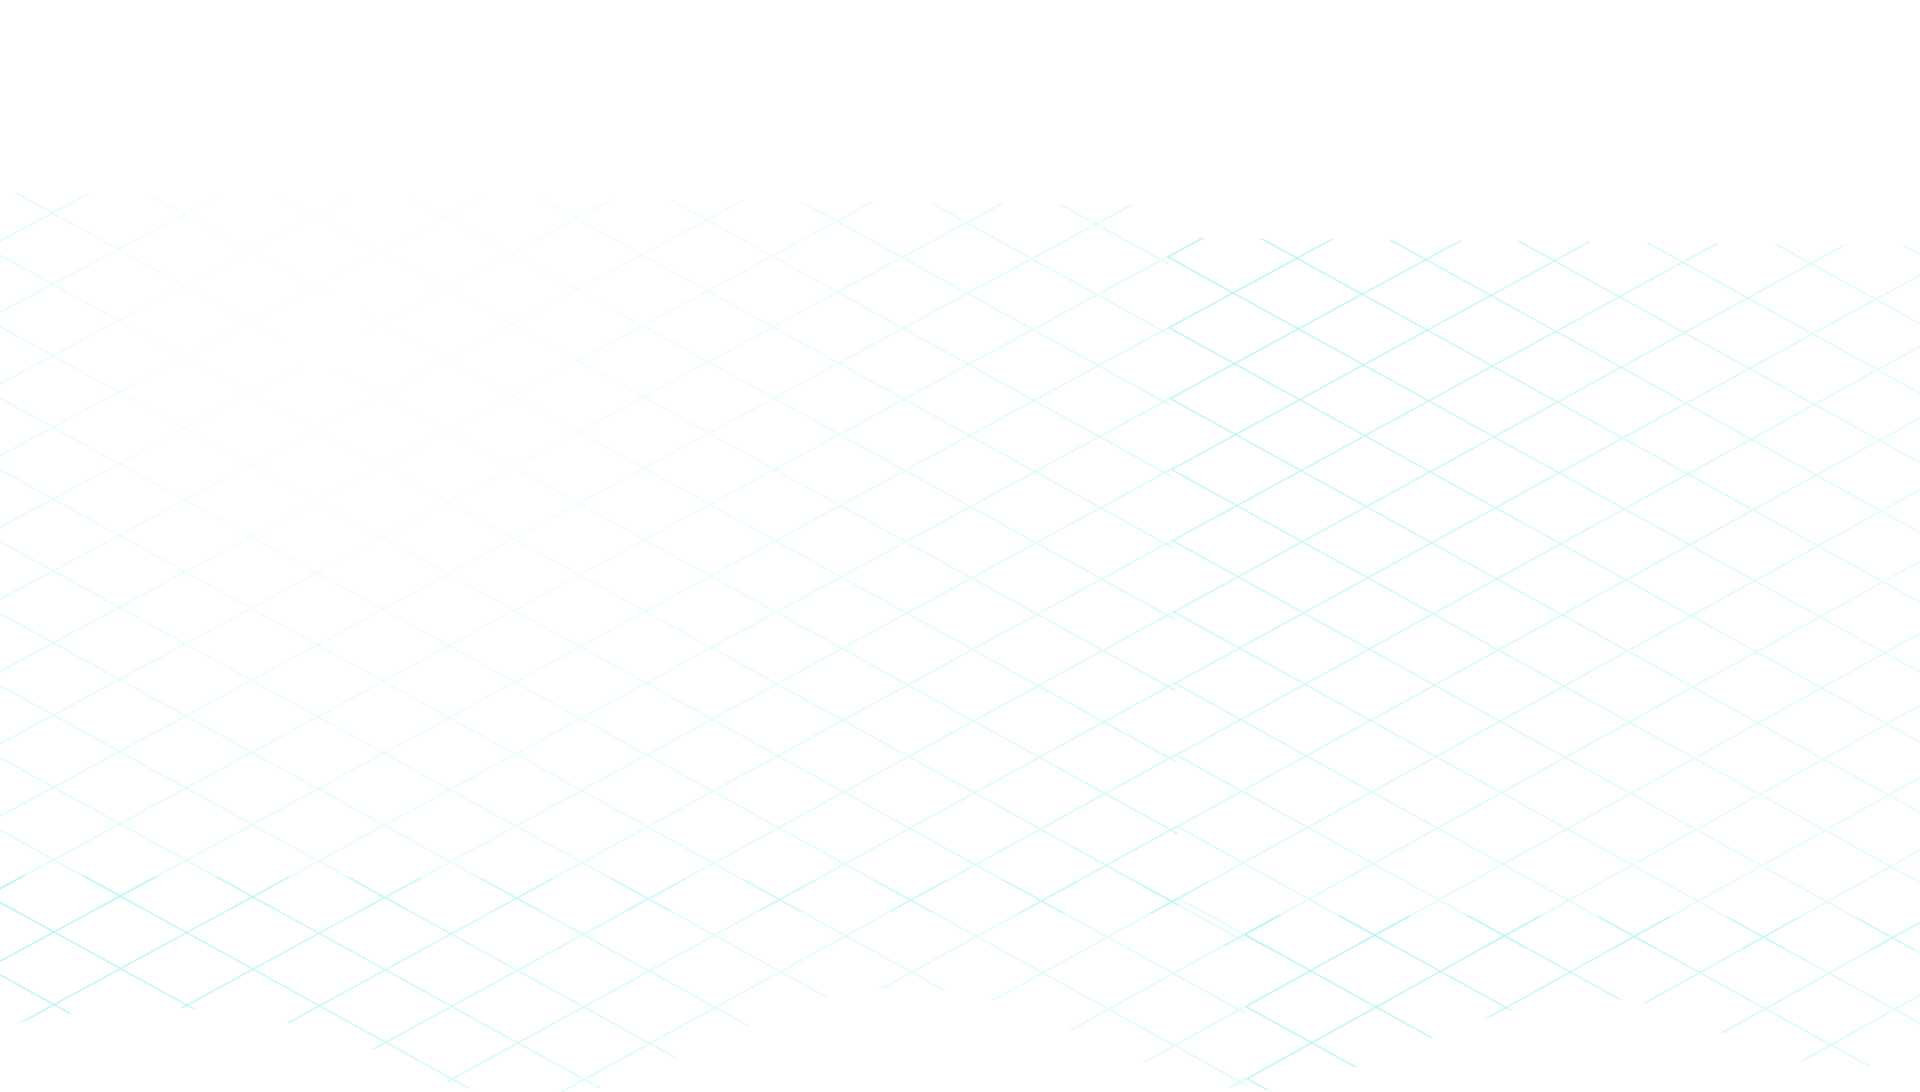
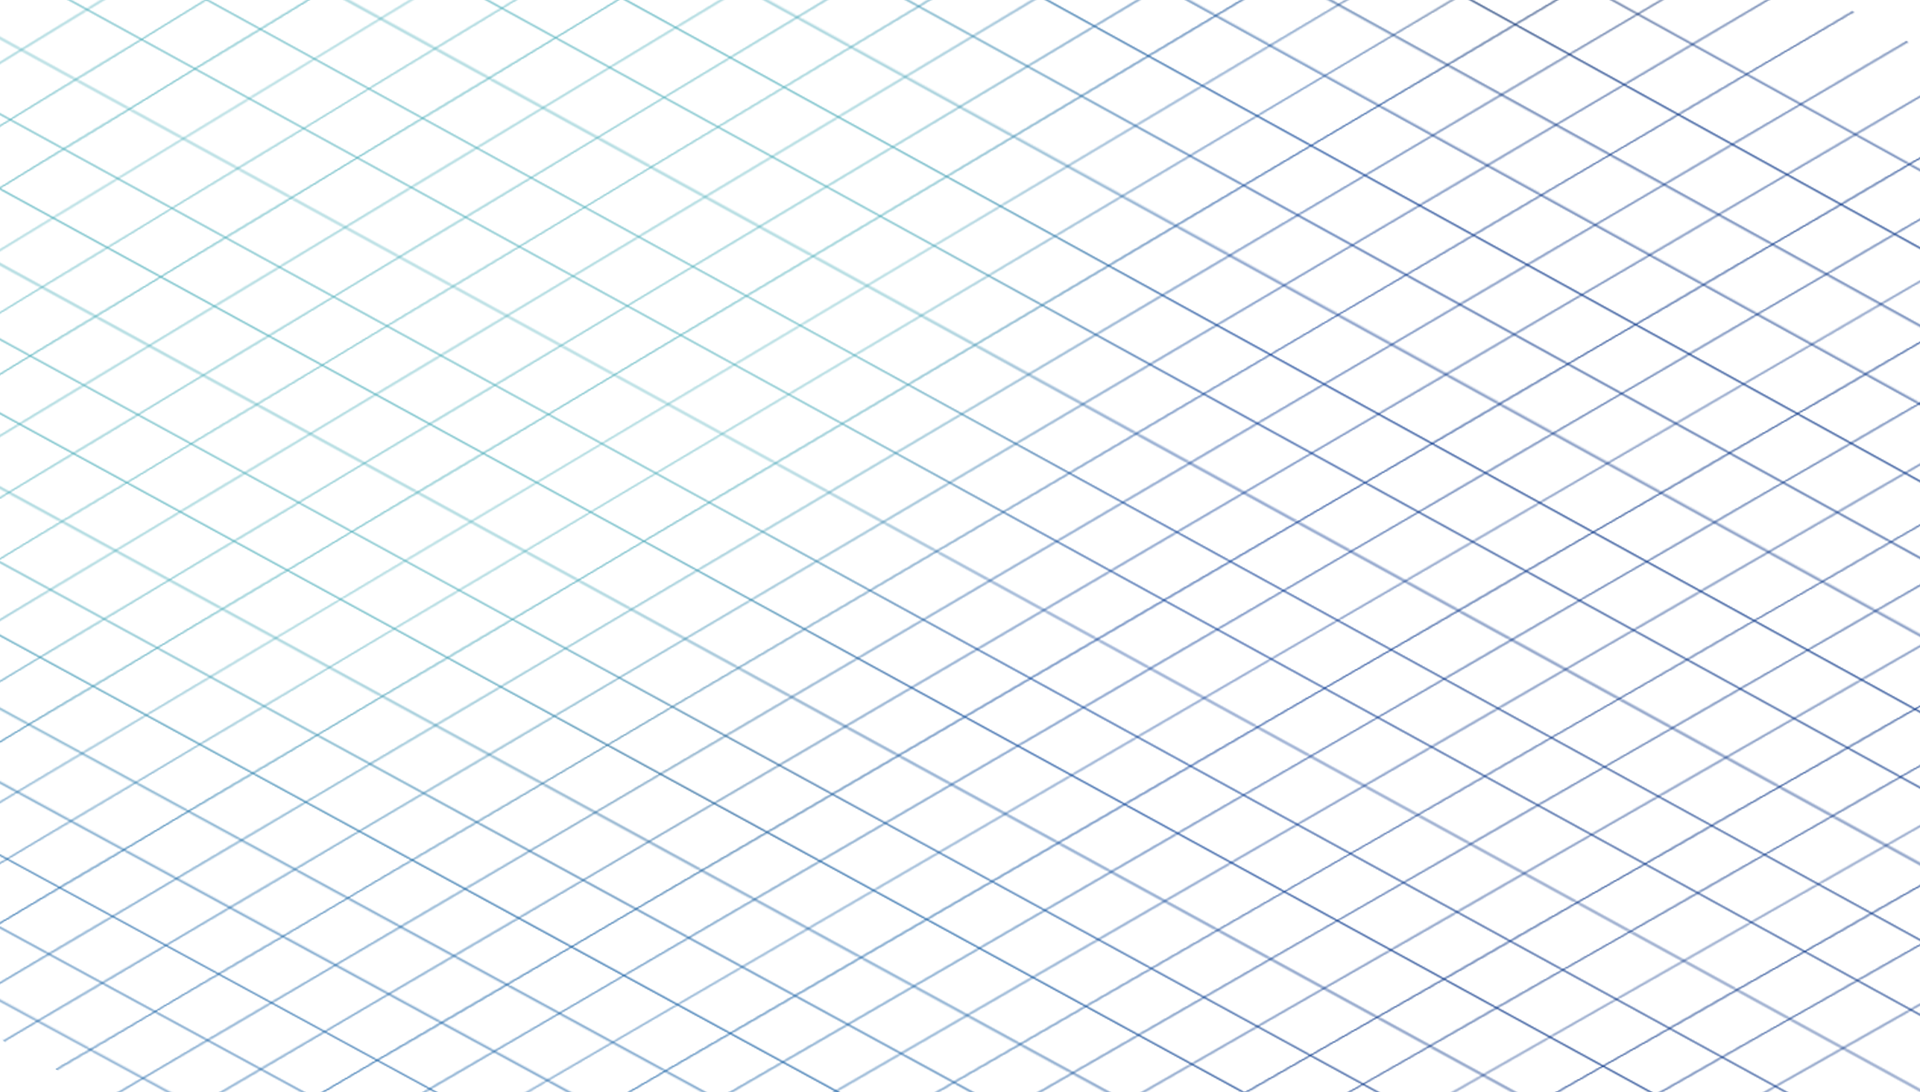
animation-bg-line change img

diff --git a/scss/index.scss b/scss/index.scss
@@ -15,7 +15,7 @@
     position: absolute;
     top: 0;
     left: 0;
-    filter: drop-shadow(5px 8px 2px rgba(7, 3, 49, 0.9));
+    // filter: drop-shadow(0px 0px 1px rgba(2, 25, 153, 0.9));
 }
 .animation-label {
     position: absolute;

diff --git a/js/animation.js b/js/animation.js
@@ -2,7 +2,7 @@
 gsap.fromTo(
     '.animation-bg-line',
     {
-        opacity: 0.1, // 设置初始透明度为0
+        opacity: 0.5, // 设置初始透明度为0
         // y: '0%',
         scale: 1,
     },

diff --git a/css/index.css b/css/index.css
@@ -17,7 +17,6 @@
   position: absolute;
   top: 0;
   left: 0;
-  filter: drop-shadow(5px 8px 2px rgba(7, 3, 49, 0.9));
 }
 
 .animation-label {
